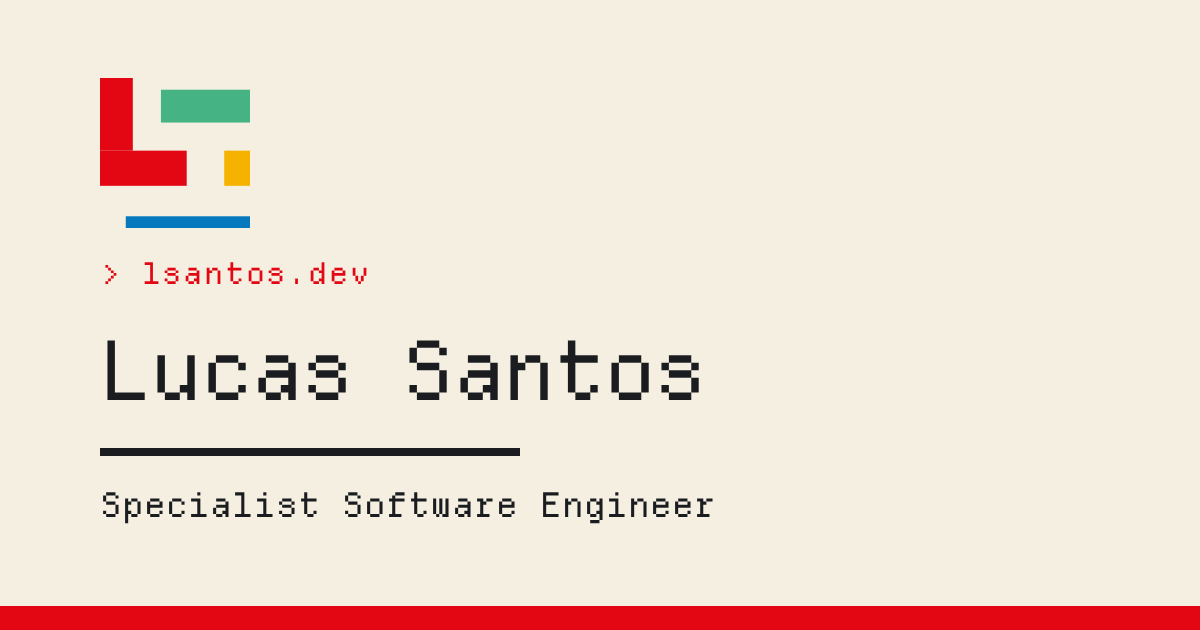
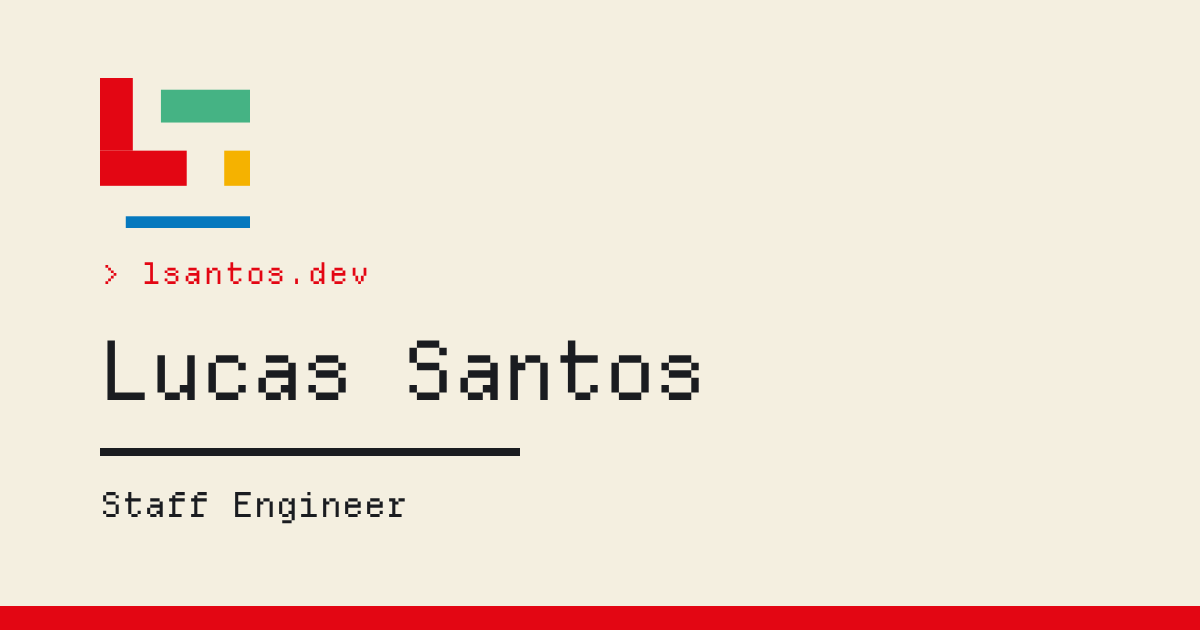
feat: share image and its alt text say Staff Engineer

Changed region(s): [[0.0925, 0.7841, 0.5858, 0.8444]]

diff --git a/about.html b/about.html
@@ -14,7 +14,7 @@
   <meta property="og:image" content="https://lsantos.dev/img/og.png">
   <meta property="og:image:width" content="1200">
   <meta property="og:image:height" content="630">
-  <meta property="og:image:alt" content="Lucas Santos, Specialist Software Engineer">
+  <meta property="og:image:alt" content="Lucas Santos, Staff Engineer">
   <meta name="twitter:card" content="summary_large_image">
   <link rel="preload" href="/fonts/plex-mono-400.woff2" as="font" type="font/woff2" crossorigin>
   <link rel="icon" type="image/svg+xml" href="/favicon.svg">

diff --git a/ai-usage.html b/ai-usage.html
@@ -14,7 +14,7 @@
   <meta property="og:image" content="https://lsantos.dev/img/og.png">
   <meta property="og:image:width" content="1200">
   <meta property="og:image:height" content="630">
-  <meta property="og:image:alt" content="Lucas Santos, Specialist Software Engineer">
+  <meta property="og:image:alt" content="Lucas Santos, Staff Engineer">
   <meta name="twitter:card" content="summary_large_image">
   <link rel="preload" href="/fonts/plex-mono-400.woff2" as="font" type="font/woff2" crossorigin>
   <link rel="icon" type="image/svg+xml" href="/favicon.svg">

diff --git a/friends.html b/friends.html
@@ -15,7 +15,7 @@
   <meta property="og:image" content="https://lsantos.dev/img/og.png">
   <meta property="og:image:width" content="1200">
   <meta property="og:image:height" content="630">
-  <meta property="og:image:alt" content="Lucas Santos, Specialist Software Engineer">
+  <meta property="og:image:alt" content="Lucas Santos, Staff Engineer">
   <meta name="twitter:card" content="summary_large_image">
   <link rel="preload" href="/fonts/plex-mono-400.woff2" as="font" type="font/woff2" crossorigin>
   <link rel="icon" type="image/svg+xml" href="/favicon.svg">

diff --git a/index.html b/index.html
@@ -18,7 +18,7 @@
   <meta property="og:image" content="https://lsantos.dev/img/og.png">
   <meta property="og:image:width" content="1200">
   <meta property="og:image:height" content="630">
-  <meta property="og:image:alt" content="Lucas Santos, Specialist Software Engineer">
+  <meta property="og:image:alt" content="Lucas Santos, Staff Engineer">
   <meta name="twitter:card" content="summary_large_image">
   <link rel="preload" href="/fonts/plex-mono-400.woff2" as="font" type="font/woff2" crossorigin>
   <link rel="icon" type="image/svg+xml" href="/favicon.svg">

diff --git a/now.html b/now.html
@@ -15,7 +15,7 @@
   <meta property="og:image" content="https://lsantos.dev/img/og.png">
   <meta property="og:image:width" content="1200">
   <meta property="og:image:height" content="630">
-  <meta property="og:image:alt" content="Lucas Santos, Specialist Software Engineer">
+  <meta property="og:image:alt" content="Lucas Santos, Staff Engineer">
   <meta name="twitter:card" content="summary_large_image">
   <link rel="preload" href="/fonts/plex-mono-400.woff2" as="font" type="font/woff2" crossorigin>
   <link rel="icon" type="image/svg+xml" href="/favicon.svg">

diff --git a/projects.html b/projects.html
@@ -15,7 +15,7 @@
   <meta property="og:image" content="https://lsantos.dev/img/og.png">
   <meta property="og:image:width" content="1200">
   <meta property="og:image:height" content="630">
-  <meta property="og:image:alt" content="Lucas Santos, Specialist Software Engineer">
+  <meta property="og:image:alt" content="Lucas Santos, Staff Engineer">
   <meta name="twitter:card" content="summary_large_image">
   <link rel="preload" href="/fonts/plex-mono-400.woff2" as="font" type="font/woff2" crossorigin>
   <link rel="icon" type="image/svg+xml" href="/favicon.svg">

diff --git a/uses.html b/uses.html
@@ -16,7 +16,7 @@
   <meta property="og:image" content="https://lsantos.dev/img/og.png">
   <meta property="og:image:width" content="1200">
   <meta property="og:image:height" content="630">
-  <meta property="og:image:alt" content="Lucas Santos, Specialist Software Engineer">
+  <meta property="og:image:alt" content="Lucas Santos, Staff Engineer">
   <meta name="twitter:card" content="summary_large_image">
   <link rel="preload" href="/fonts/plex-mono-400.woff2" as="font" type="font/woff2" crossorigin>
   <link rel="icon" type="image/svg+xml"
